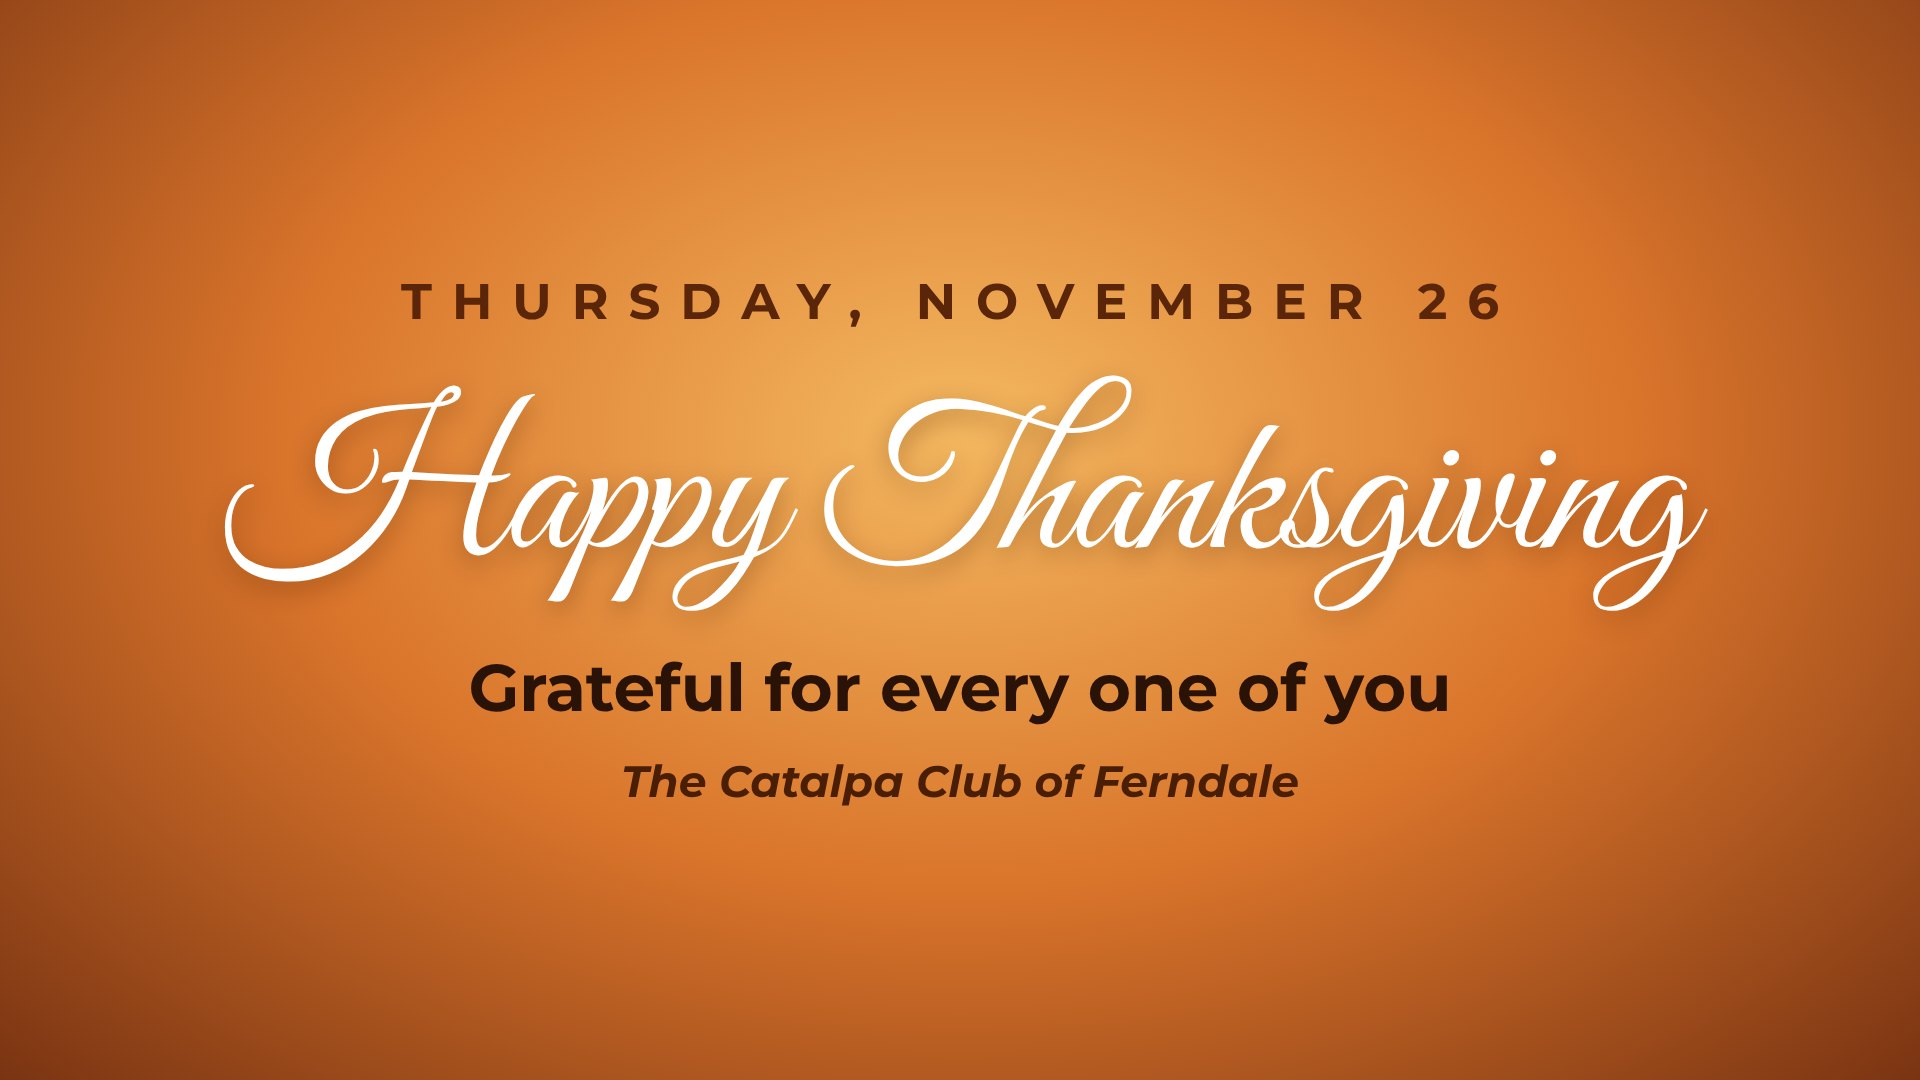
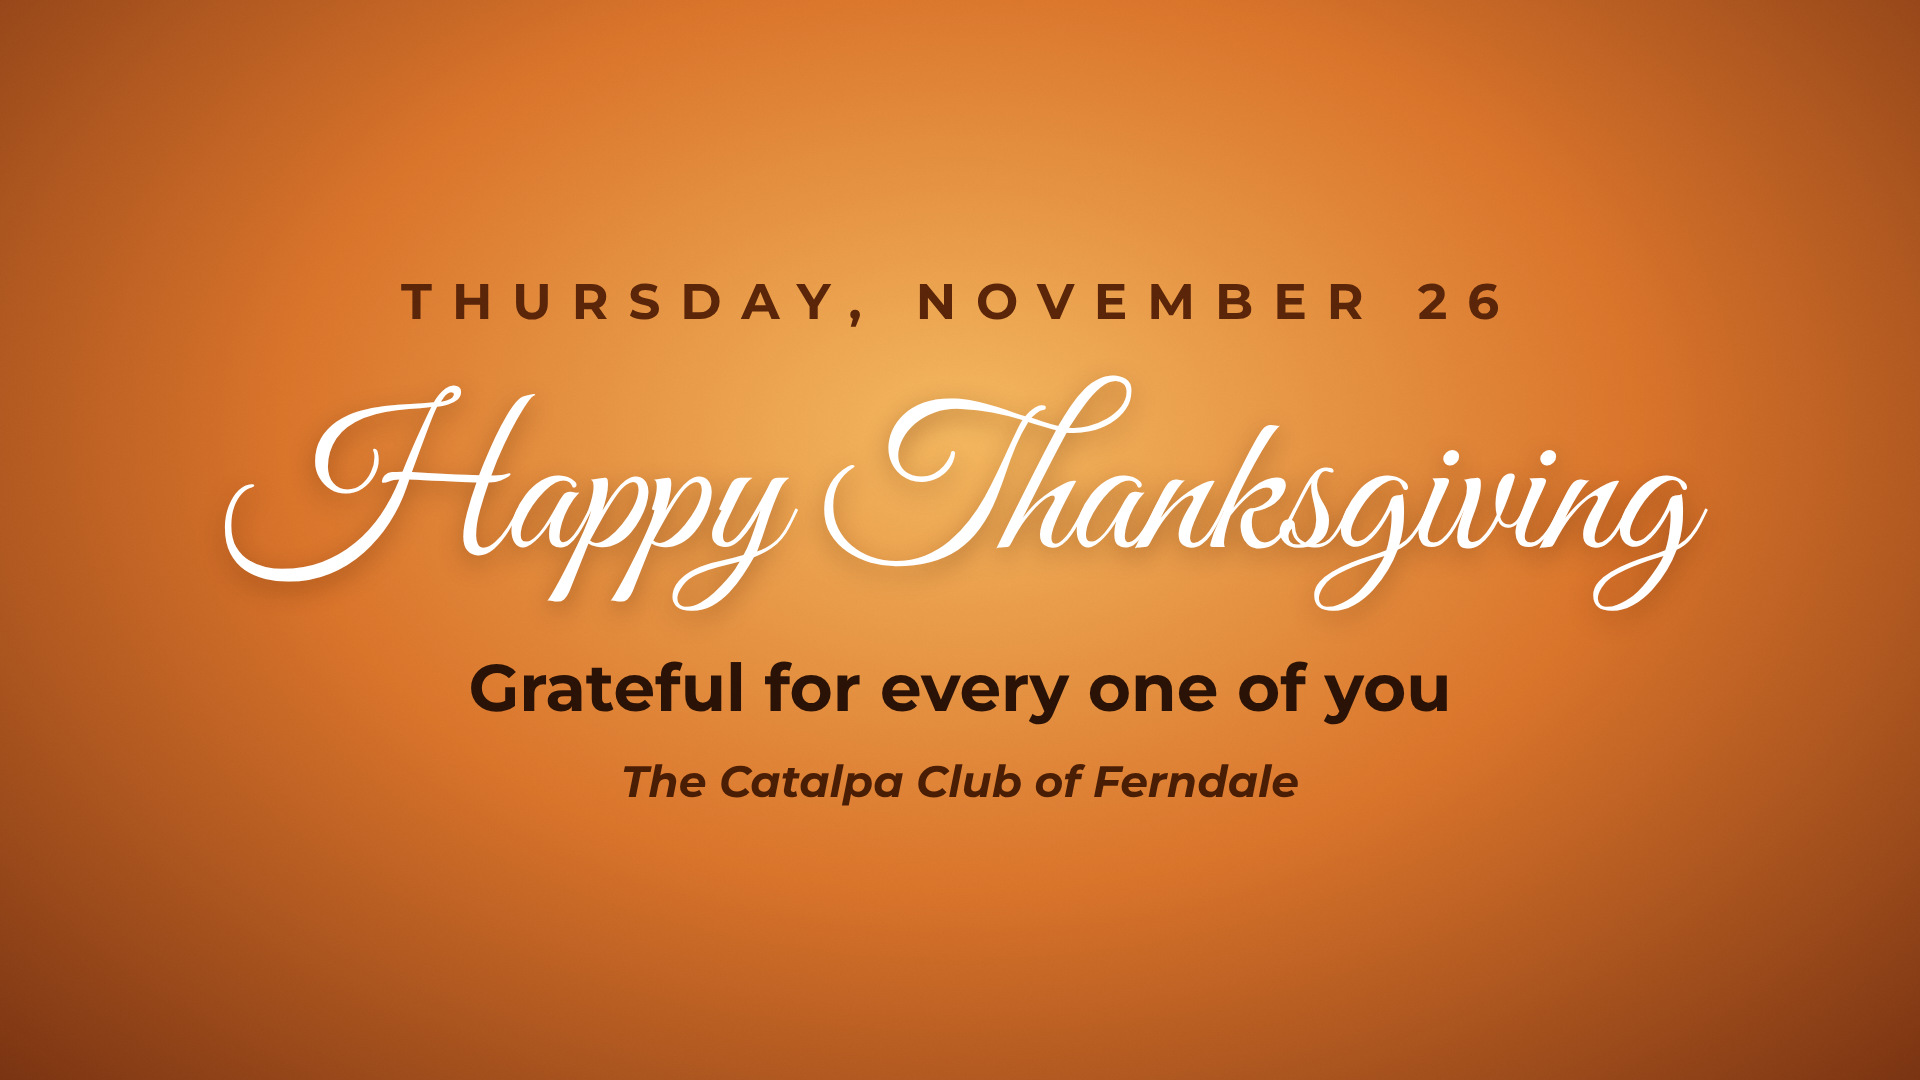
Sharper billboard pictures
Slides re-saved with full colour detail (no colour blur on red and yellow text) and smoothed dark gradients; the billboard now draws them in full 32-bit colour instead of 16-bit, which removed the banding.

Includes Activate billboard, Billboard images, Menu countdown, one-ding sounds and the startup retry.

Changed region(s): [[0.6875, 0.4889, 0.7188, 0.5194]]

diff --git a/app/src/main/java/com/wyred4fun/pokertimer/BillboardView.kt b/app/src/main/java/com/wyred4fun/pokertimer/BillboardView.kt
@@ -49,7 +49,7 @@ class BillboardView(ctx: Context) : FrameLayout(ctx) {
         Thread {
             val bmp = try {
                 context.assets.open("slides/$name").use {
-                    BitmapFactory.decodeStream(it, null, BitmapFactory.Options().apply { inPreferredConfig = Bitmap.Config.RGB_565 })
+                    BitmapFactory.decodeStream(it, null, BitmapFactory.Options().apply { inPreferredConfig = Bitmap.Config.ARGB_8888 })   // full colour: 16-bit colour made dark gradients band
                 }
             } catch (e: Exception) { null }
             main.post {
